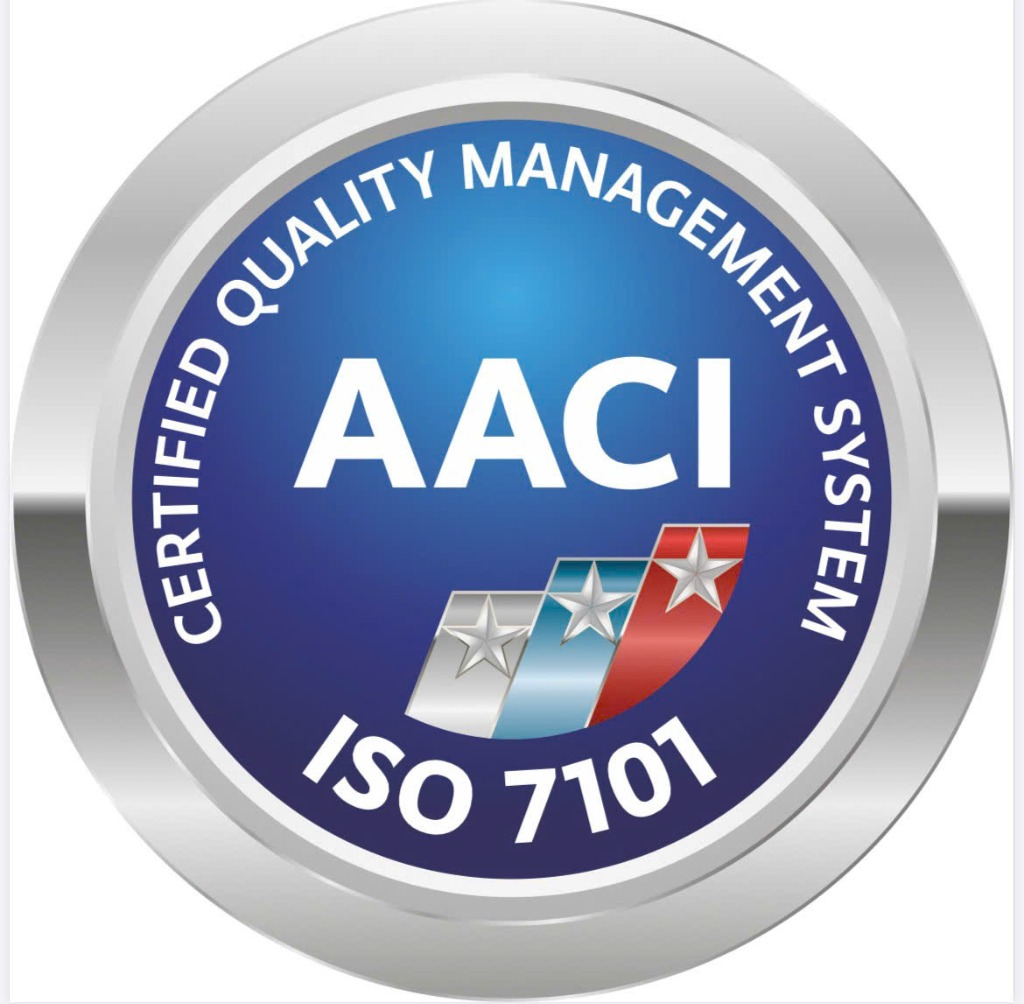
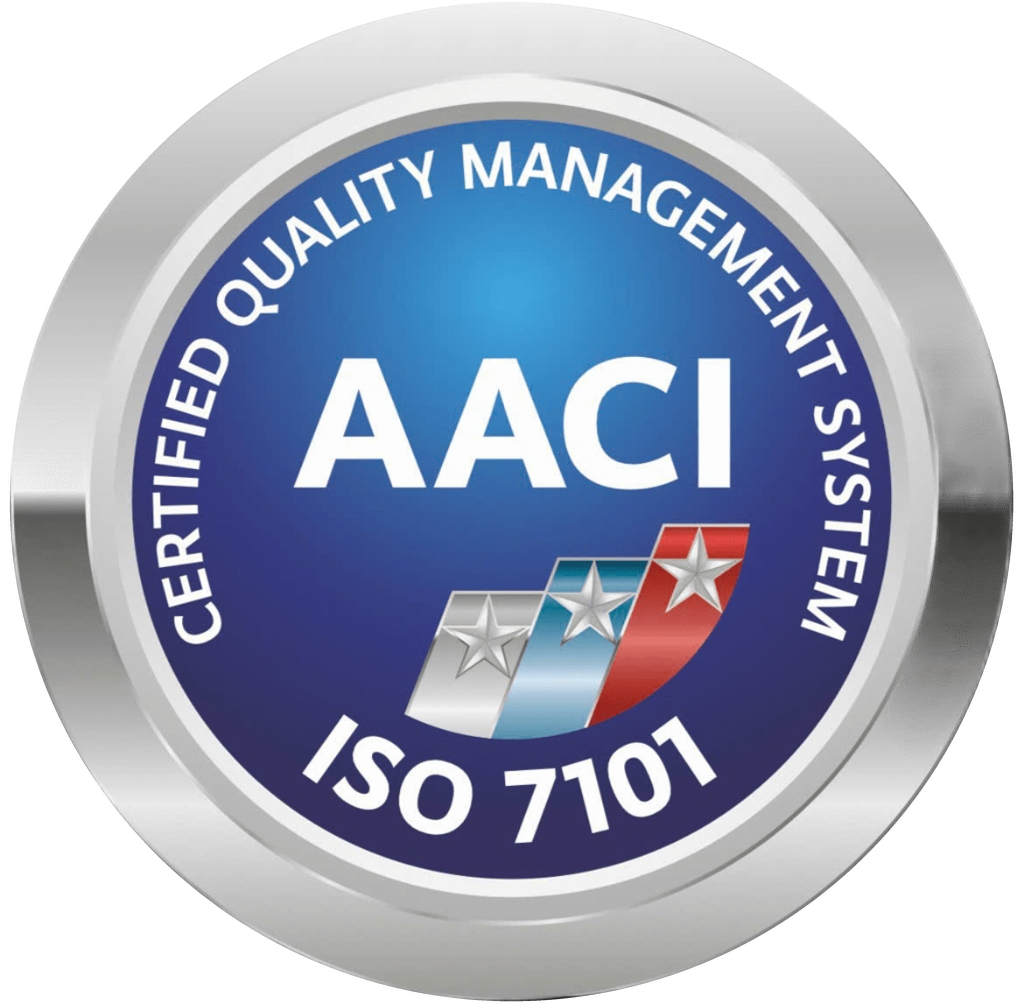
Update ISO 7101:2023 badge image to clean transparent circular badge

diff --git a/cih/script.js b/cih/script.js
@@ -584,8 +584,8 @@ window.closeDoctorModal = function() {
 /* ── AWARD DETAIL MODAL POPUP ── */
 const CIH_AWARDS_DATA = {
   'iso-7101': {
-    img: 'images/Website/giai-thuong/iso_7101_2023.jpg?v=20261023',
-    logo: 'images/Website/giai-thuong/iso_7101_2023.jpg?v=20261023',
+    img: 'images/Website/giai-thuong/iso_7101_2023.png?v=2',
+    logo: 'images/Website/giai-thuong/iso_7101_2023.png?v=2',
     title: 'Chứng nhận ISO 7101:2023',
     badge: 'Chứng nhận Quốc tế',
     desc: 'ISO 7101:2023 là bộ tiêu chuẩn quốc tế đầu tiên được thiết kế chuyên biệt dành cho hệ thống quản lý chất lượng trong lĩnh vực chăm sóc sức khỏe (do AACI chứng nhận). Việc đạt chứng nhận ISO 7101:2023 khẳng định hệ thống quản trị đồng bộ, hiệu quả vận hành chuẩn mực, cải tiến liên tục quy trình chăm sóc và cam kết an toàn người bệnh ở mức cao nhất tại Bệnh viện Quốc tế City.'

diff --git a/cih/chung-nhan-giai-thuong.html b/cih/chung-nhan-giai-thuong.html
@@ -437,7 +437,7 @@
       <!-- 3.5. CHỨNG NHẬN ISO 7101:2023 -->
       <div class="cert-card" onclick="openAwardModal('iso-7101')">
         <div class="cert-img-box">
-          <img src="images/Website/giai-thuong/iso_7101_2023.jpg?v=20261023" alt="Chứng nhận ISO 7101:2023" />
+          <img src="images/Website/giai-thuong/iso_7101_2023.png?v=2" alt="Chứng nhận ISO 7101:2023" />
         </div>
         <h3 class="cert-card-title">CHỨNG NHẬN ISO 7101:2023</h3>
       </div>
@@ -608,7 +608,7 @@
   </div>
 </div>
 
-<script src="script.js?v=1792736600"></script>
+<script src="script.js?v=1792737800"></script>
 <script src="booking_modal.js?v=1790565050"></script>
 <div id="google_translate_element" style="display:none"></div>
 <script type="text/javascript" src="//translate.google.com/translate_a/element.js?cb=googleTranslateElementInit"></script>
